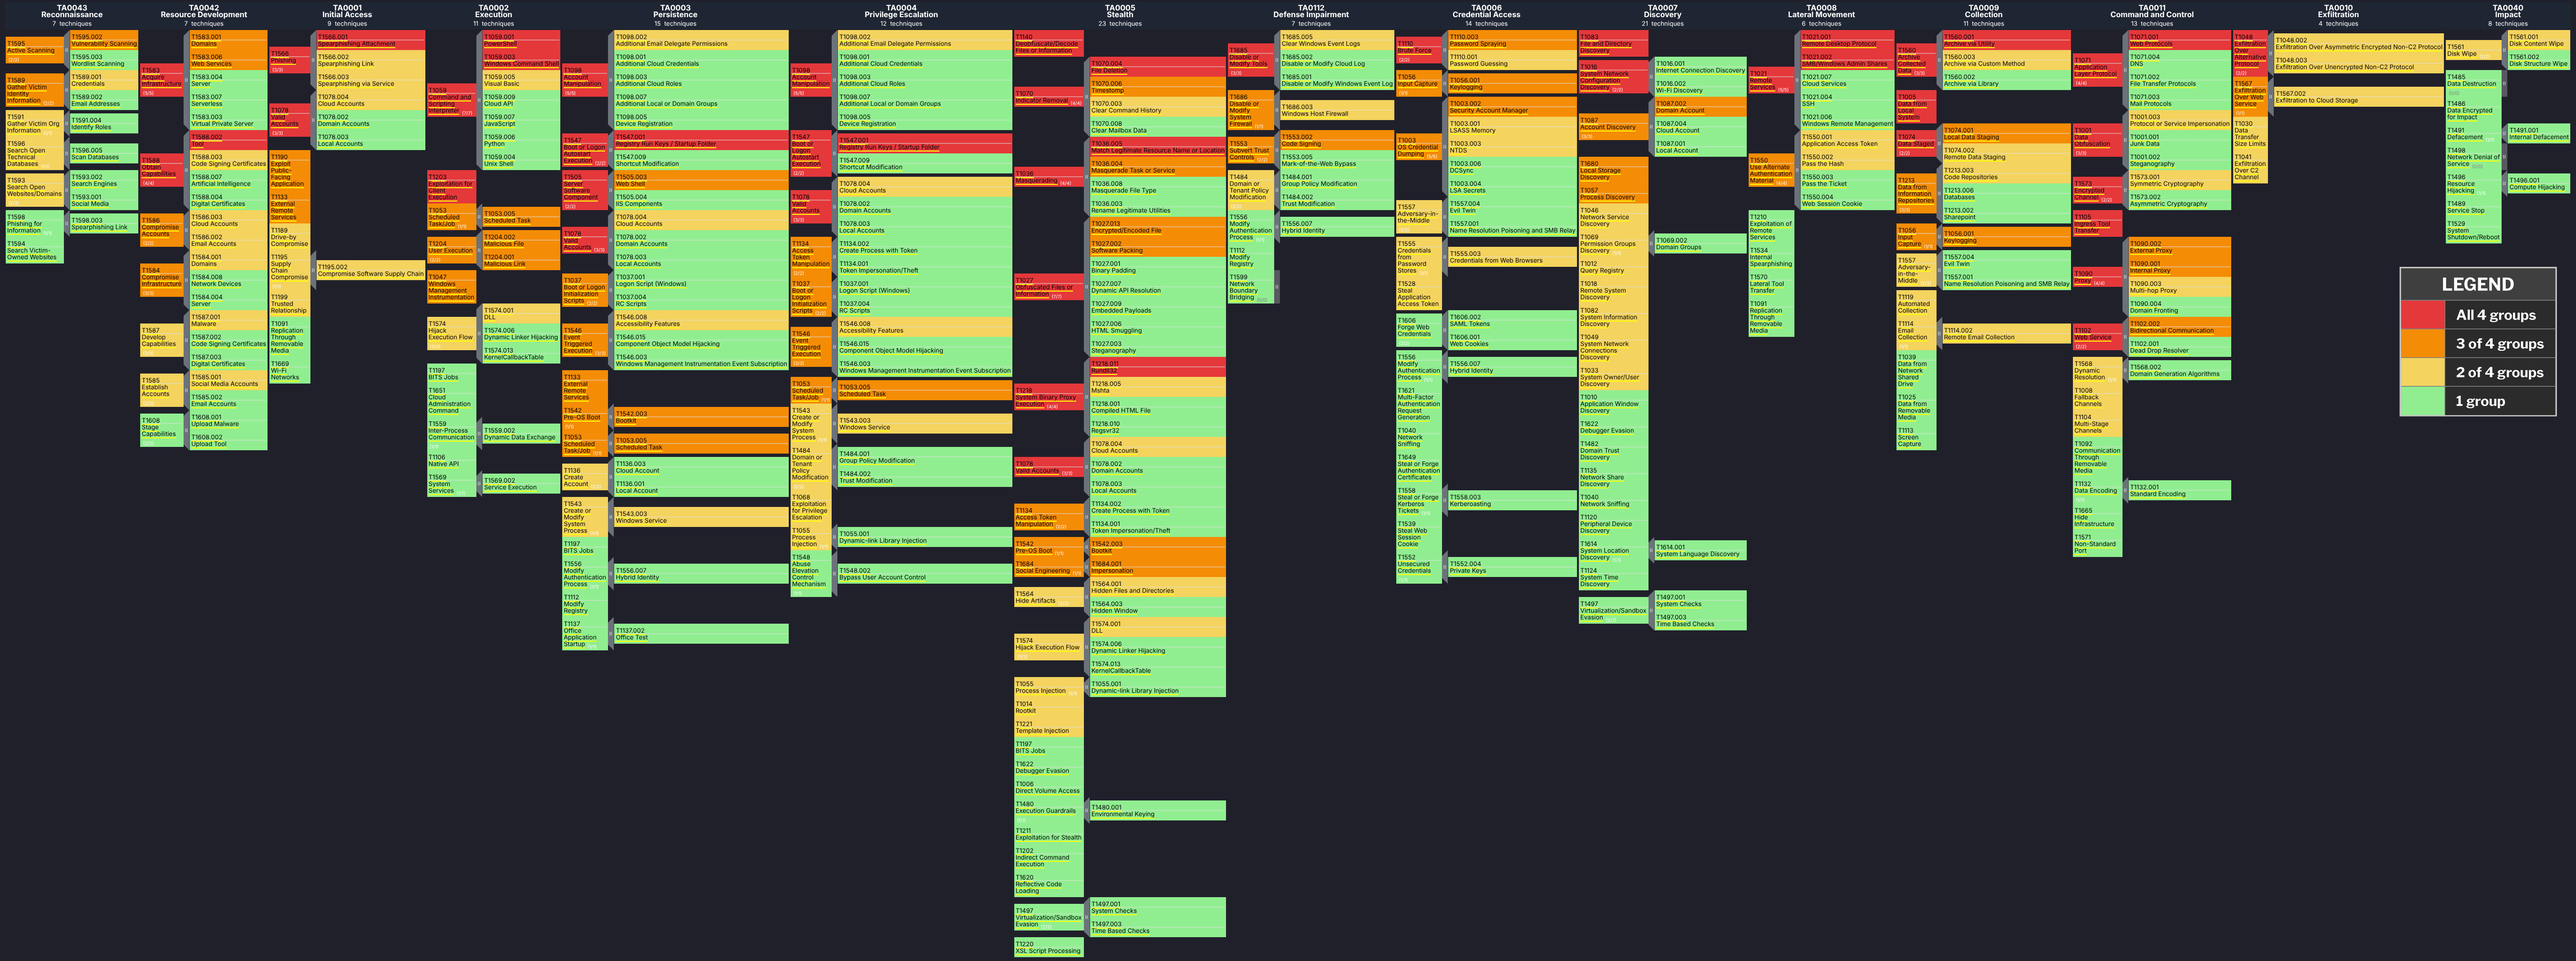
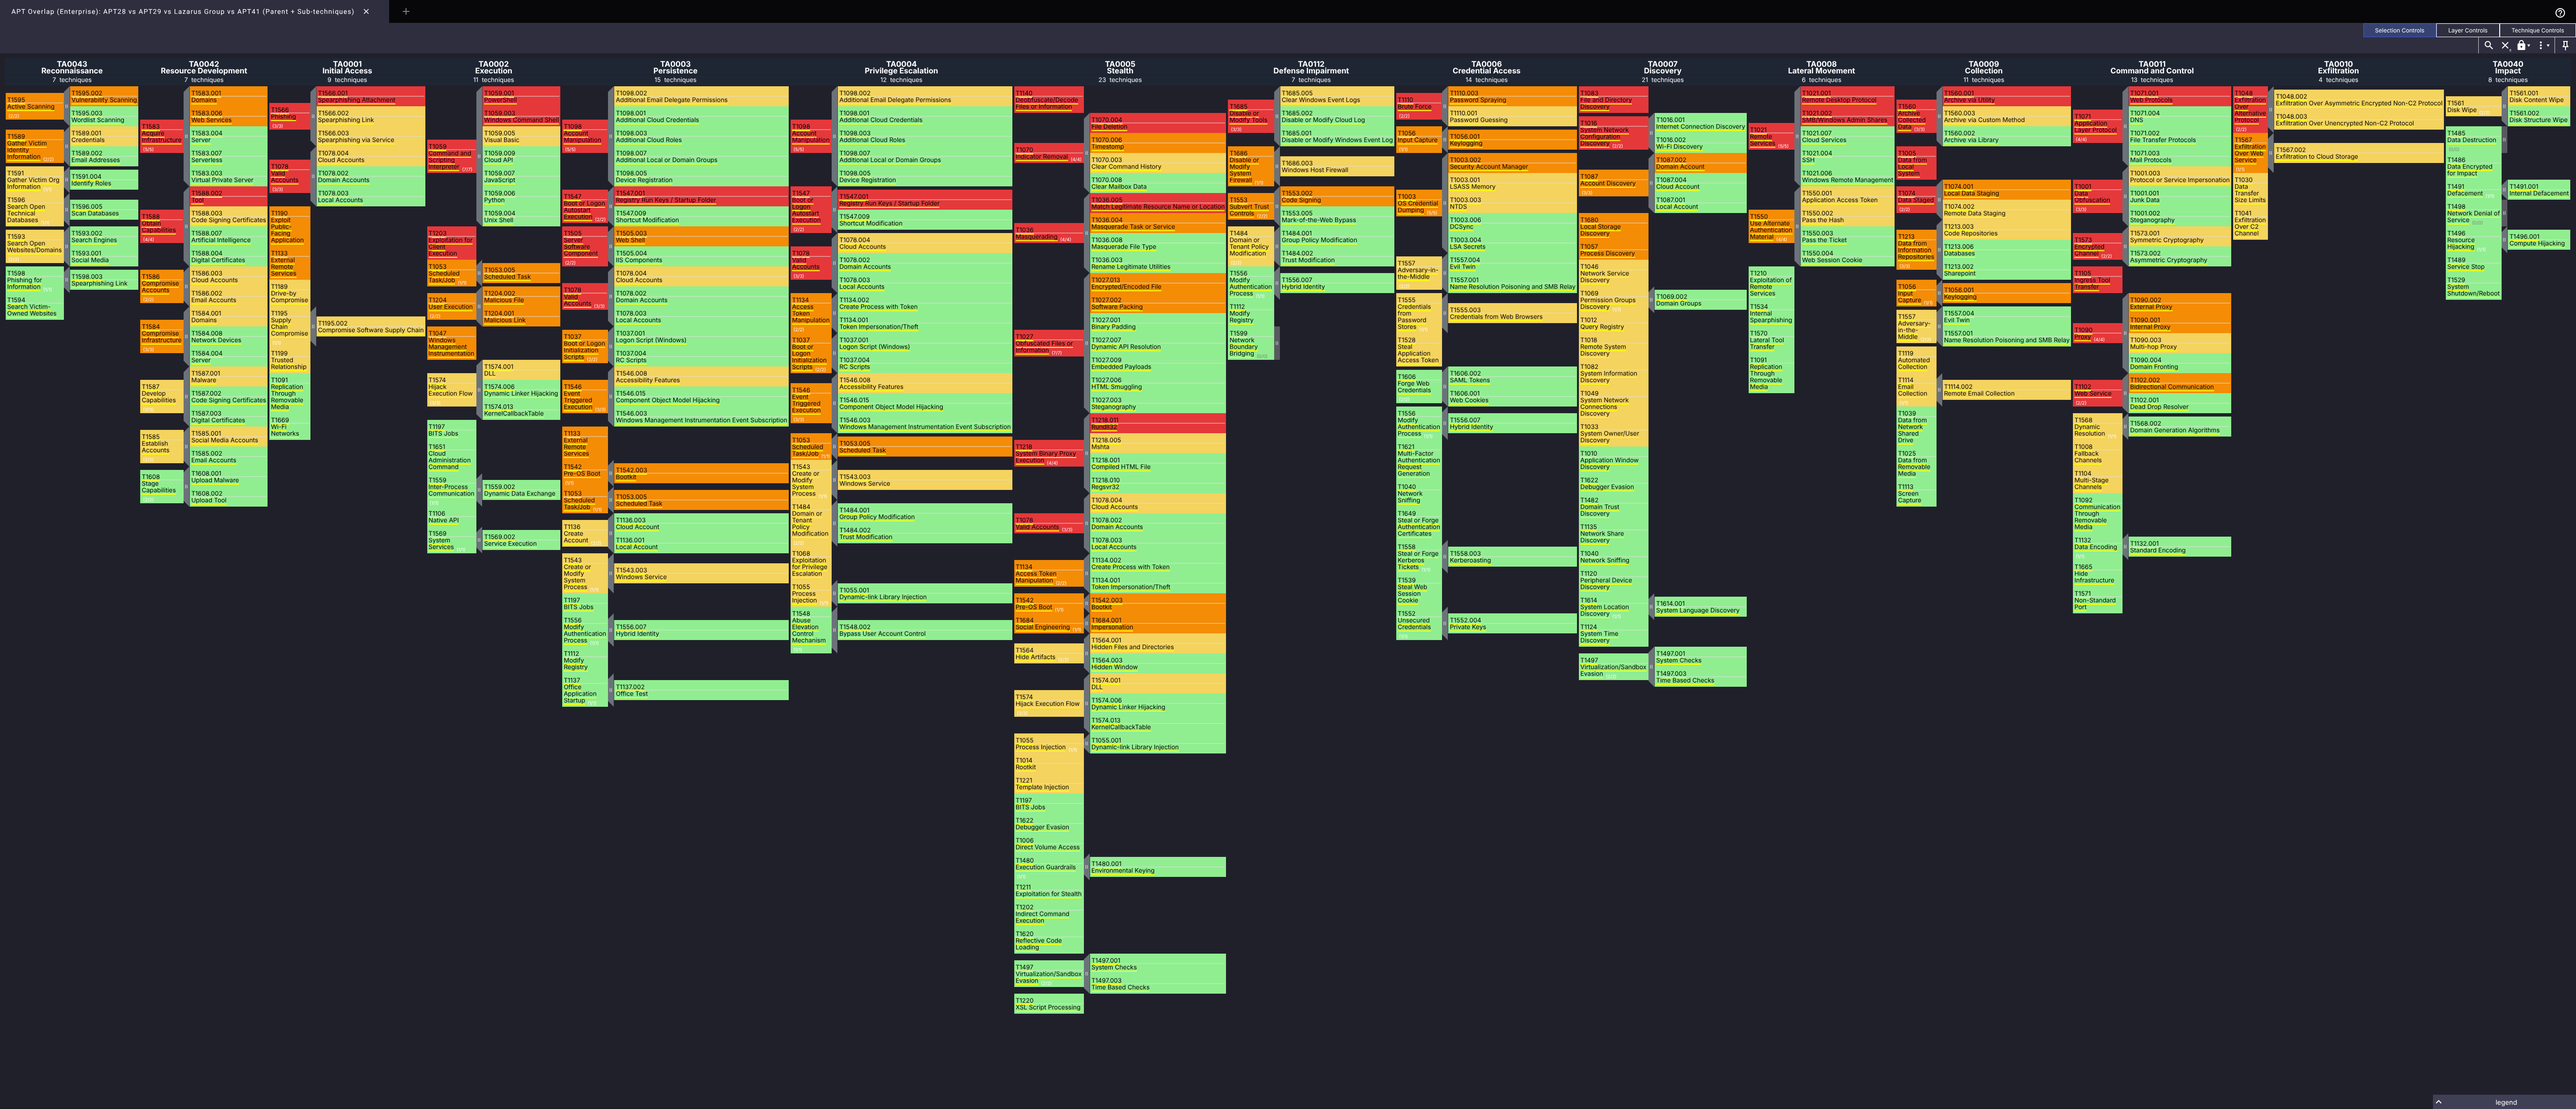
README showcase: direct live ATT&CK Navigator captures, no legend overlay - preview
Claude-Session: https://claude.ai/code/session_012WMKup8ieYyUirNtvryXeo

Changed region(s): [[0.0, 0.0, 1.0, 0.9995], [0.933, 0.9683, 1.0, 1.0]]

diff --git a/README.md b/README.md
@@ -6,7 +6,7 @@ The tool pulls the latest MITRE ATT&CK data for the **Enterprise** matrix (the d
 
 ## What it looks like
 
-APT28, APT29, Lazarus Group and APT41 in ATT&CK Navigator (dark theme), each with the tool's slide legend placed in an empty corner.
+APT28, APT29, Lazarus Group and APT41, captured directly from the live [MITRE ATT&CK Navigator](https://mitre-attack.github.io/attack-navigator/) (dark theme) after loading the tool's layer files with **Open Existing Layer**.
 
 ### Parent techniques only
 
